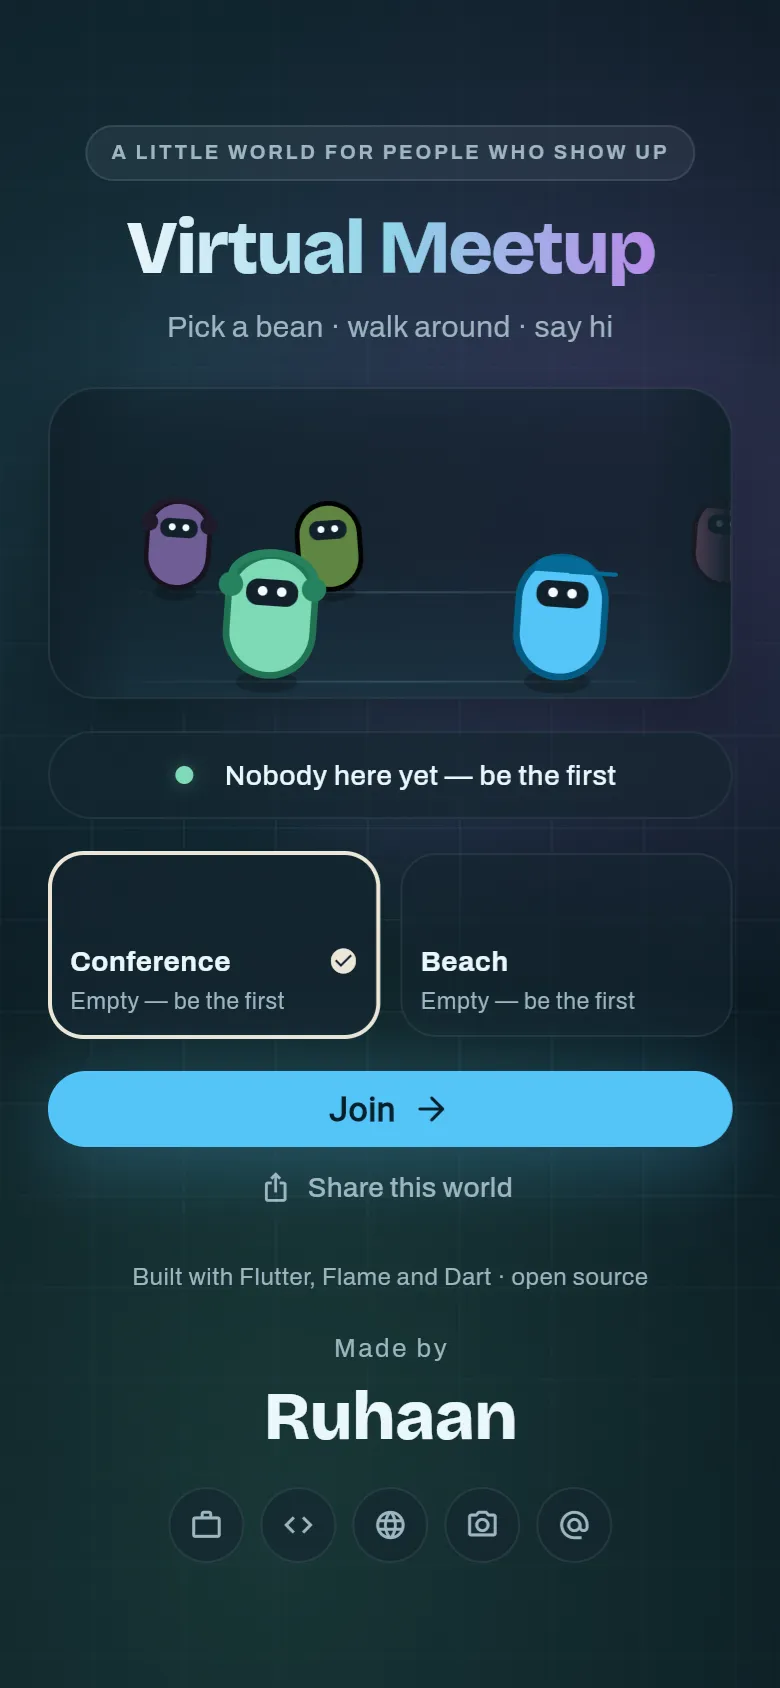
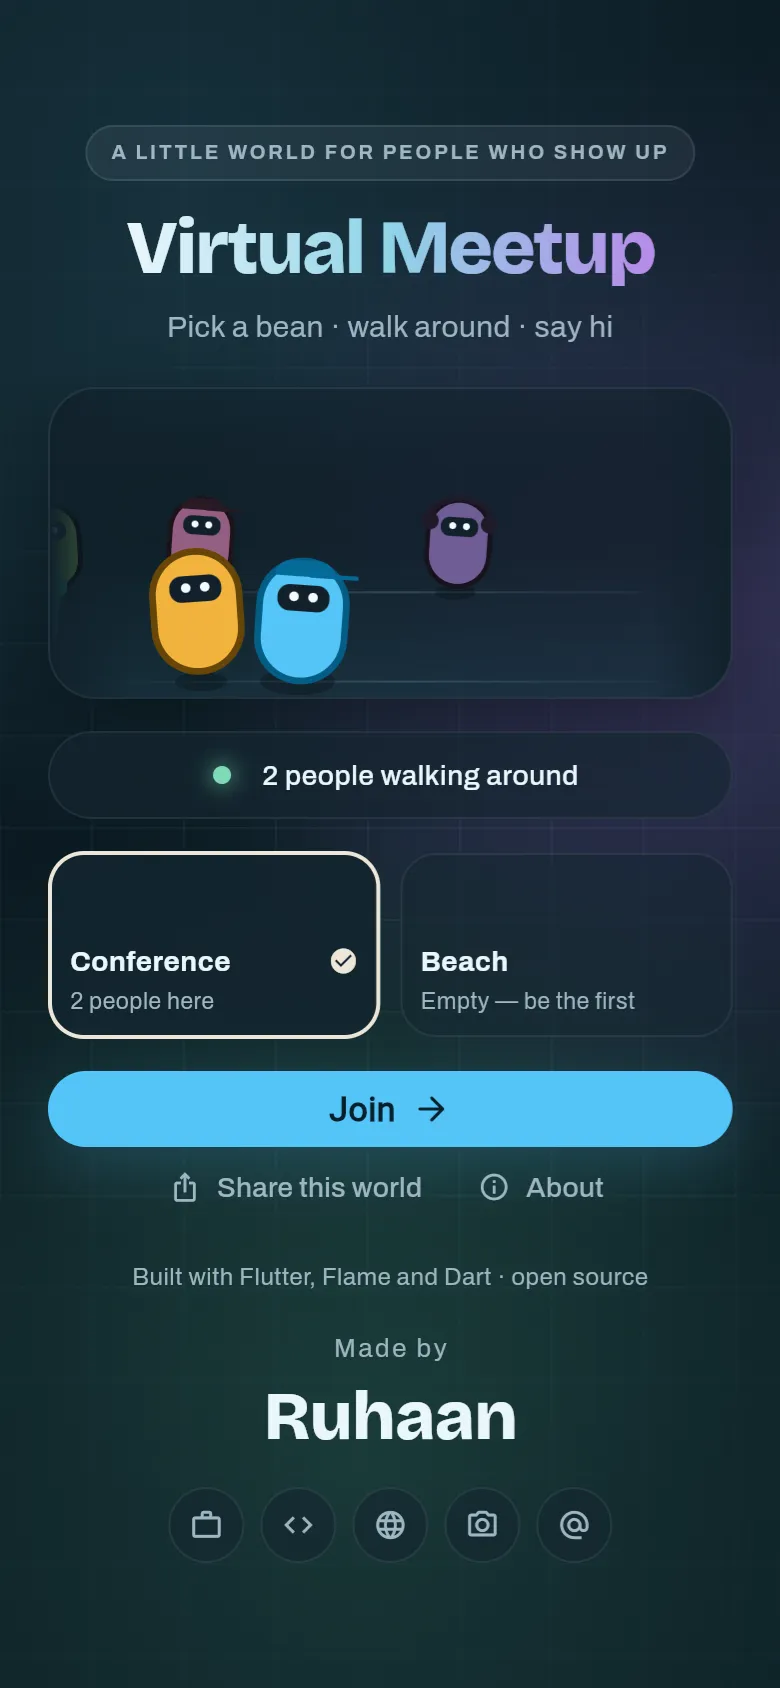
docs: README for strangers, live URL and screenshots
- README: live URL and about page up top, two phone screenshots, status
  says deployed. The world section now matches the code: two maps, and a
  seven-zone conference cross (Code Lab, Food Court, Garden Deck), not
  the old five-zone diagram with a photo wall.
- about.html: drop the Claude section. The feature is not being built,
  and the page describes only what exists. Screenshot refreshed to show
  the About button.
- deploy/.env.example and deploy/README.md: the 'grep localhost:8080
  must be 0' check was wrong (that string is the fallback branch and is
  in every bundle). Check for the endpoint's presence instead, as the
  workflow does. Resolve the TODO(domain) notes, document a multi-name
  SITE_DOMAIN, the version gate and the SITE_DOMAIN variable.
- Bump client to 1.1.1+4 so the about page change can deploy.

diff --git a/client/web/about.html b/client/web/about.html
@@ -19,11 +19,9 @@
     :root {
       color-scheme: dark;
       --bg: #0b1a22;
-      --surface: #13252f;
       --ink: #eaf6fb;
       --muted: #9fb6c2;
       --good: #7ed9b6;
-      --warn: #ead37e;
       --line: rgba(234, 246, 251, 0.09);
     }
     * { box-sizing: border-box; }
@@ -88,25 +86,6 @@
     }
     ol { padding-left: 20px; }
     li + li { margin-top: 8px; }
-    .card {
-      padding: 16px 18px;
-      border: 1px solid var(--line);
-      border-radius: 16px;
-      background: var(--surface);
-    }
-    .card p { margin: 0; }
-    .card p + p { margin-top: 8px; }
-    .badge {
-      display: inline-block;
-      margin-left: 6px;
-      padding: 2px 8px;
-      border-radius: 999px;
-      background: rgba(234, 211, 126, 0.14);
-      color: var(--warn);
-      font-size: 12px;
-      font-weight: 700;
-      vertical-align: middle;
-    }
     footer {
       margin-top: 48px;
       padding-top: 16px;
@@ -144,19 +123,6 @@
         text and the sponsor booths are configuration, not code, so any meetup
         can reuse it.</li>
     </ol>
-
-    <h2>Built with Claude <span class="badge">Coming soon</span></h2>
-    <div class="card">
-      <p>
-        A moderator-only assistant that drafts the event's configuration (the
-        front-door text and booth blurbs) from a one-line brief, using Claude.
-      </p>
-      <p>
-        It will be off unless the server has an API key, attendees will never
-        see it, and nothing goes live until a moderator reviews the draft and
-        saves it.
-      </p>
-    </div>
 
     <h2>Open source</h2>
     <p>

diff --git a/README.md b/README.md
@@ -7,10 +7,19 @@ the room. The event's name and front-door copy are config, not code.
 [![CI](https://github.com/flutterboy20/virtual_meetup/actions/workflows/ci.yml/badge.svg)](https://github.com/flutterboy20/virtual_meetup/actions/workflows/ci.yml)
 [![License: MIT](https://img.shields.io/badge/License-MIT-blue.svg)](LICENSE)
 
-> **Status:** feature-complete and hardened. Not yet deployed.
+**Live at [virtualmeetup.dev](https://virtualmeetup.dev)**: open it on your phone and walk
+in. What it is, in one page: [virtualmeetup.dev/about.html](https://virtualmeetup.dev/about.html).
+
+<p align="center">
+  <img src="docs/screenshots/front-door.webp" width="260" alt="The front door on a phone: title, animated beans, live head count, map picker and Join button.">
+  &nbsp;&nbsp;
+  <img src="docs/screenshots/world.webp" width="260" alt="Inside the world on a phone: beans with nametags in the atrium, the minimap, the joystick and the emote button.">
+</p>
+
+> **Status:** feature-complete, hardened and deployed.
 >
-> Five themed zones in a cross, static collision, sponsor booths driven by config,
-> proximity nametags, emotes, a minimap and a live head count. Moderation is built —
+> Two maps (a seven-zone conference venue and a beach), static collision, sponsor
+> booths driven by config, proximity nametags, emotes, a minimap and a live head count. Moderation is built —
 > mute, kick and ban behind a token, with an audit log. The relay culls with a spatial
 > grid on a tuned 15Hz tick with a nearest-N neighbour cap on top
 > (see [Measured load](#measured-load)), and holds up to 300 concurrent clients with
@@ -18,32 +27,44 @@ the room. The event's name and front-door copy are config, not code.
 >
 > Hardened for a public URL: admission control at the HTTP upgrade, per-socket size
 > and rate limits before decode, join deadlines, and origin pinning that fails closed.
-> The deployment stack — Docker, Caddy, one origin for app and socket — is written and
-> lives in [`deploy/`](deploy/). The public URL is the last piece.
+> The deployment stack — Docker, Caddy, one origin for app and socket — lives in
+> [`deploy/`](deploy/) and runs on a single small cloud VM, shipped by a manual GitHub
+> Actions workflow that waits for a human approval before it touches the server.
 
 ## The world
 
-A **cross**, not a maze. Five zones meet along walkways as wide as the rooms
-themselves, because two hundred people funnelled through a doorway is a jam.
+Two maps, picked on the front door.
+
+**Conference** is a **cross with two filled corners**, not a maze. Seven zones meet
+along walkways as wide as the rooms themselves, because two hundred people funnelled
+through a doorway is a jam.
 
 ```
-                    +-------------+
-                    |  CONFERENCE |     stage, screen, seat rows
-                    |     HALL    |
       +-------------+-------------+-------------+
-      |   PHOTO     |   ATRIUM    |   SPONSOR   |
-      |    WALL     |  (spawn)    |     ROW     |   booths from config
+      |             |  CONFERENCE |   CODE LAB  |     desks, projector, whiteboard
+      |             |     HALL    |             |
       +-------------+-------------+-------------+
-                    |   LOUNGE    |     pool, loungers
-                    |   & POOL    |
-                    +-------------+
+      |    FOOD     |   ATRIUM    |   SPONSOR   |
+      |    COURT    |   (spawn)   |     ROW     |     booths from config
+      +-------------+-------------+-------------+
+      |   GARDEN    |   LOUNGE    |             |
+      |    DECK     |   & POOL    |             |
+      +-------------+-------------+-------------+
 ```
 
-- **Atrium** — everybody spawns here, on a ring around the credit pillar.
+- **Atrium** — everybody spawns here.
 - **Conference hall** — the stage and its seating.
+- **Code lab** — desk rows, a projector and a whiteboard.
 - **Sponsor row** — booths; walk up to one and its panel opens.
+- **Food court** — stalls, a snack cart and a gather-here counter.
+- **Garden deck** — lawn, trees, a fountain and a stepped deck looking over the pool.
 - **Lounge & pool** — the chill zone.
-- **Photo wall** — a "gather here" beacon that brightens as people stand on it.
+
+The two empty corners stay empty on purpose: a social toy dies when you can walk ten
+seconds without passing anyone.
+
+**Beach** is a boardwalk, a band of sand and a swimmable sea. Each map is its own
+room on the server: you only see the people on the map you picked.
 
 All of it is drawn from vector shapes in code. There is not one image in the bundle —
 every prop, bean and floor tile is a path — because every image is cold-load time on
@@ -88,7 +109,7 @@ Run the server:
 ```bash
 cd server
 ALLOWED_ORIGINS='*' fvm dart run bin/server.dart   # listens on :8080
-curl localhost:8080/health                         # -> Hello from protocol v5
+curl localhost:8080/health                         # -> Hello from protocol v<N>
 curl localhost:8080/metrics                        # -> live load numbers as JSON
 ```
 
@@ -184,7 +205,7 @@ fvm exec dart run melos run ci --no-select   # format + analyze + test, everythi
 |--------------|--------|----------------------------|---------|
 | `PORT`       | server | `8080`                     | TCP port the server listens on |
 | `CELL_SIZE`  | server | `320`                      | Interest grid cell edge, in world units. Each client is sent the players in its own cell plus the eight around it. |
-| `SERVER_URL` | client | `ws://localhost:8080/ws`   | WebSocket endpoint, passed at build time as `--dart-define=SERVER_URL=…`. Production will be `wss://`. The welcome screen's online count is read over HTTP from the same host. |
+| `SERVER_URL` | client | `ws://localhost:8080/ws`   | WebSocket endpoint, passed at build time as `--dart-define=SERVER_URL=…`. Production is `wss://`, e.g. `wss://virtualmeetup.dev/ws`. The welcome screen's online count is read over HTTP from the same host. |
 | `SESSION_LINGER_SECONDS` | server | `90` | How long a disconnected player's seat is held for their return. `0` disables it, so every reconnect is a new player at a new spawn point. |
 | `NEIGHBOUR_CAP` | server | `40` | The most neighbours one snapshot may carry. A hard limit on top of the grid, for when everybody stands in the same cell. |
 | `ADMIN_TOKEN` | server | *(unset)* | The shared secret for the moderation screen. **Unset means moderation is switched off**, not open — every admin message is refused. At least 16 characters; the server refuses to start with a shorter one. Never commit a value. |

diff --git a/deploy/README.md b/deploy/README.md
@@ -106,7 +106,7 @@ docker compose logs -f
 Caddy obtains the certificate on its own. Then:
 
 ```bash
-curl https://your-host/health         # -> Hello from protocol v5
+curl https://your-host/health         # -> Hello from protocol v<N>
 curl https://your-host/metrics        # -> live numbers as JSON
 ```
 
@@ -120,19 +120,24 @@ cd client
 fvm flutter build web --release \
   --dart-define=SERVER_URL=wss://your-host/ws
 
-grep -c "localhost:8080" build/web/main.dart.js    # MUST print 0
+grep -c "wss://your-host/ws" build/web/main.dart.js    # MUST print 1 or more
 rsync -az --delete build/web/ user@host:/opt/virtual-conference/deploy/web/
 ```
 
 That grep is not paranoia. Forgetting the flag still builds, and ships a bundle
 that dials `ws://localhost:8080/ws` forever — the app loads, the art renders, the
-front door shows its built-in copy, and nobody can join.
+front door shows its built-in copy, and nobody can join. Check for your endpoint's
+*presence*, not for `localhost:8080`'s absence: that string is the fallback branch
+in `resolveServerUri` and stays in every bundle, flag or not.
 
 The GitHub Actions workflow (`.github/workflows/deploy.yml`) does all of the
-above and fails the build on that grep. It is `workflow_dispatch` only: a merge
+above and fails the build on that grep. It also refuses to redeploy the version
+already live (bump `version:` in `client/pubspec.yaml`), and waits for a
+reviewer's approval on the `production` environment before it touches the VM. It is `workflow_dispatch` only: a merge
 to main must never restart the server underneath a room full of people.
 
 Repository secrets it needs: `DEPLOY_HOST`, `DEPLOY_USER`, `DEPLOY_SSH_KEY`.
+Repository variable: `SITE_DOMAIN`, the one hostname baked into the bundle.
 Repository variable: `SITE_DOMAIN`. The admin token is **not** among them — it
 lives only on the VM.
 
